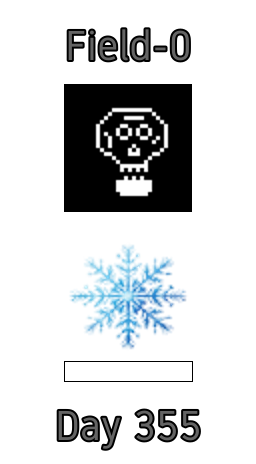
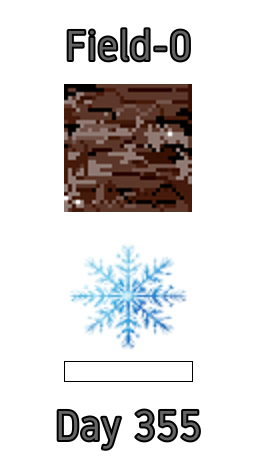
Correction of death state: reabsorption by the soil.

Changed region(s): [[0.25, 0.181, 0.75, 0.4828]]

diff --git a/farmgym/v2/entities/Plant.py b/farmgym/v2/entities/Plant.py
@@ -65,8 +65,8 @@ class Plant(Entity_API):
 
         self.variables["cumulated_nutrients_N#g"] = fillarray(X, Y, (0, 10000), 0.0)
         self.variables["cumulated_nutrients_P#g"] = fillarray(X, Y, (0, 10000), 0.0)
-        self.variables["cumulated_nutrients_K#g"] = fillarray(X, Y, (0, 10000), 0.0)
-        self.variables["cumulated_nutrients_C#g"] = fillarray(X, Y, (0, 10000), 0.0)
+        self.variables["cumulated_nutrients_K#g"] = fillarray(X, Y, (0, 100000), 0.0)
+        self.variables["cumulated_nutrients_C#g"] = fillarray(X, Y, (0, 100000), 0.0)
         self.variables["cumulated_stress_nutrients_N#g"] = fillarray(X, Y, (0, 10000), 0.0)
         self.variables["cumulated_stress_nutrients_P#g"] = fillarray(X, Y, (0, 10000), 0.0)
         self.variables["cumulated_stress_nutrients_K#g"] = fillarray(X, Y, (0, 10000), 0.0)
@@ -135,8 +135,8 @@ class Plant(Entity_API):
 
         self.variables["cumulated_nutrients_N#g"] = fillarray(X, Y, (0, 10000), 0.0)
         self.variables["cumulated_nutrients_P#g"] = fillarray(X, Y, (0, 10000), 0.0)
-        self.variables["cumulated_nutrients_K#g"] = fillarray(X, Y, (0, 10000), 0.0)
-        self.variables["cumulated_nutrients_C#g"] = fillarray(X, Y, (0, 10000), 0.0)
+        self.variables["cumulated_nutrients_K#g"] = fillarray(X, Y, (0, 100000), 0.0)
+        self.variables["cumulated_nutrients_C#g"] = fillarray(X, Y, (0, 100000), 0.0)
         self.variables["cumulated_stress_nutrients_N#g"] = fillarray(X, Y, (0, 10000), 0.0)
         self.variables["cumulated_stress_nutrients_P#g"] = fillarray(X, Y, (0, 10000), 0.0)
         self.variables["cumulated_stress_nutrients_K#g"] = fillarray(X, Y, (0, 10000), 0.0)
@@ -1090,20 +1090,21 @@ class Plant(Entity_API):
 
                     elif self.variables["stage"][x, y].value in ["dead"]:
                         self.variables["fruits_per_plant#nb"][x, y].set_value(0)
+                        threshold = 0.1
                         # Dead-None
                         if (
-                            (self.variables["cumulated_nutrients_N#g"][x, y].value == 0)
+                            (self.variables["cumulated_nutrients_N#g"][x, y].value <= threshold)
                             and (
                                 self.variables["cumulated_nutrients_P#g"][x, y].value
-                                == 0
+                                <= threshold
                             )
                             and (
                                 self.variables["cumulated_nutrients_K#g"][x, y].value
-                                == 0
+                                <= threshold
                             )
                             and (
                                 self.variables["cumulated_nutrients_C#g"][x, y].value
-                                == 0
+                                <= threshold
                             )
                         ):
                             self.variables["stage"][x, y].set_value("none")

diff --git a/tests/games/game_catalogue/farm0/farm.py b/tests/games/game_catalogue/farm0/farm.py
@@ -29,6 +29,10 @@ def env():
                 "f0>plant>cumulated_stress_nutrients_P#g",
                 "f0>plant>cumulated_stress_nutrients_K#g",
                 "f0>plant>cumulated_stress_nutrients_C#g",
+                "f0>plant>cumulated_nutrients_N#g",
+                "f0>plant>cumulated_nutrients_P#g",
+                "f0>plant>cumulated_nutrients_K#g",
+                "f0>plant>cumulated_nutrients_C#g",
                 # "f0>plant>flowers_per_plant#nb@mat",
                 "f0>plant>flowers_per_plant#nb",
                 "f0>plant>fruits_per_plant#nb",

diff --git a/docs/info.md b/docs/info.md
@@ -358,7 +358,7 @@ The simulation starts with seeds at day 120. Later, the plant slowly grows, and 
 <img src="media/farm-day-146.png?raw=true" width="24%">
 <img src="media/farm-day-184.png?raw=true" width="24%">
 <img src="media/farm-day-208.png?raw=true" width="24%"><br>
-A bit later some pollinators come visit the plant, which enables to start fruits, which grow over time.
+A bit later some pollinators come visit the plant, which enables to start fruits, which grow over time. Not that the speed at which the plabt grows is not necessarily realistic, here it tends to be slower than real beans.
 <br>
 <img src="media/farm-day-211.png?raw=true" width="24%">
 <img src="media/farm-day-212.png?raw=true" width="24%">
@@ -366,7 +366,7 @@ A bit later some pollinators come visit the plant, which enables to start fruits
 <img src="media/farm-day-250.png?raw=true" width="24%">
 <br>
 Eventually, the fruits become ripe  can can be harvested. Here, no harvest is done, so after a while all the fruit rotten, and we consider at this stage that the plant dies. 
-Here we continue the simulation long later, and we see on Day 355 the first frost event.
+Here we continue the simulation long later, the dead plant has been reabsorbed by the soil and we see on Day 355 the first frost event.
 <br>
 <img src="media/farm-day-263.png?raw=true" width="24%">
 <img src="media/farm-day-268.png?raw=true" width="24%">
@@ -379,7 +379,7 @@ Here we continue the simulation long later, and we see on Day 355 the first fros
 
 We can define different weathers, for instance, a typical weather in Lille, in Montpellier, 
 a purely constant Rainy weather and a purely constant Dry weather.
-We can then interpolate between them tp create novel weathers. 
+We can then interpolate between them to create novel weathers. 
 For instance,  in the file weather_specificatoin.yaml, we can specify a 70%-30% mix between Lille and Rainy weather as follows
 ```yaml
 lille2:
@@ -396,6 +396,6 @@ or montpellier2 to be a 70%-30% mix between Montpellier and Dry weather, having 
 The following two images show respectively a comparison of the weather lille, lille2 and lille3,
 and a comparison of the weather montpellier, montpellier2 and montpellier3,
 <p align="center">
-<img src="media/Weather_Lille_Lille2_Lille3.png?raw=true" width="80%"><br>
-<img src="media/Weather_Montpellier_Montpellier2_Montpellier3.png?raw=true" width="80%">
+<img src="media/Weather_Lille_Lille2_Lille3.png?raw=true" width="95%"><br>
+<img src="media/Weather_Montpellier_Montpellier2_Montpellier3.png?raw=true" width="95%">
 </p>
